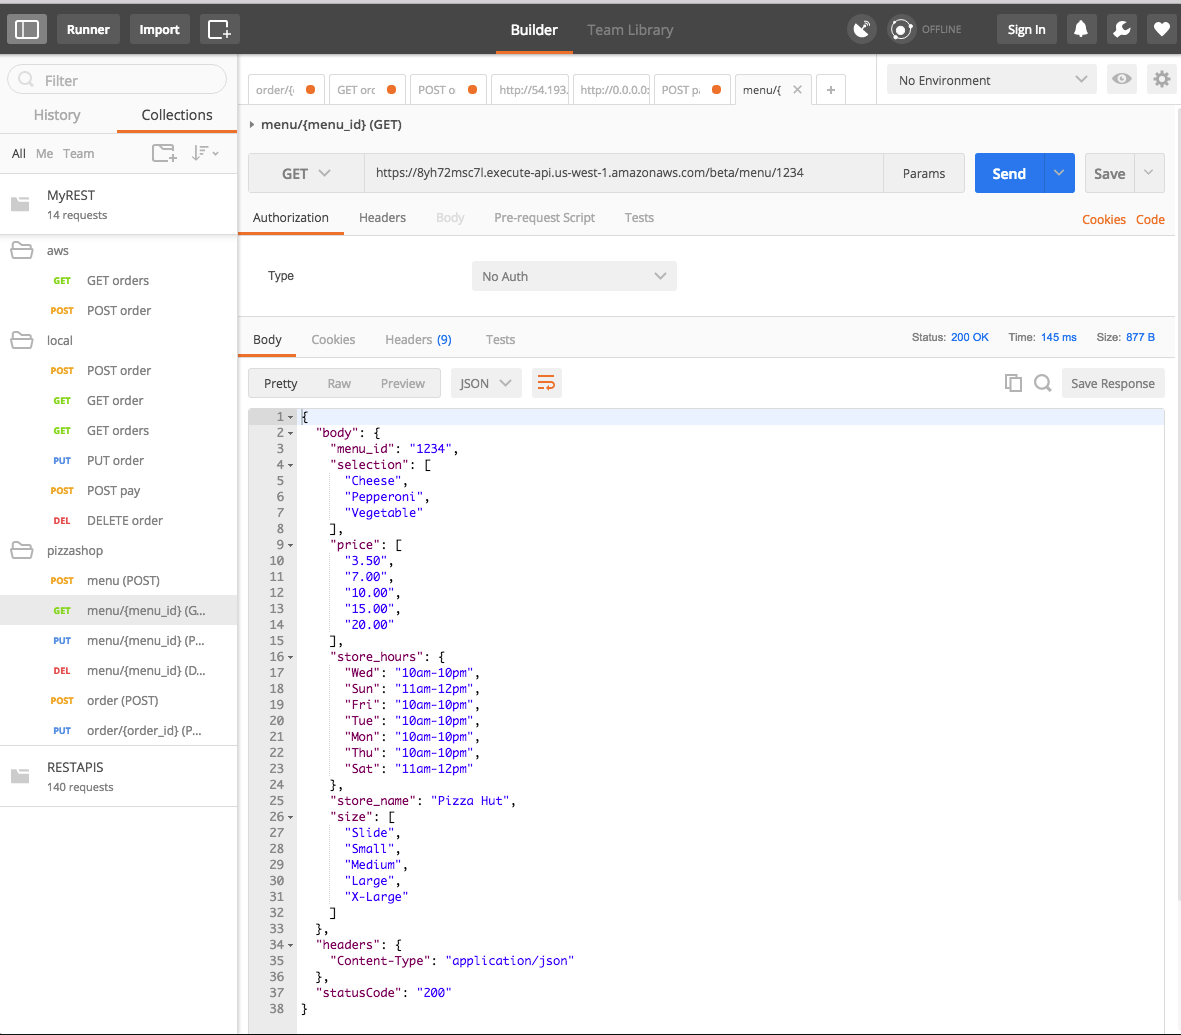
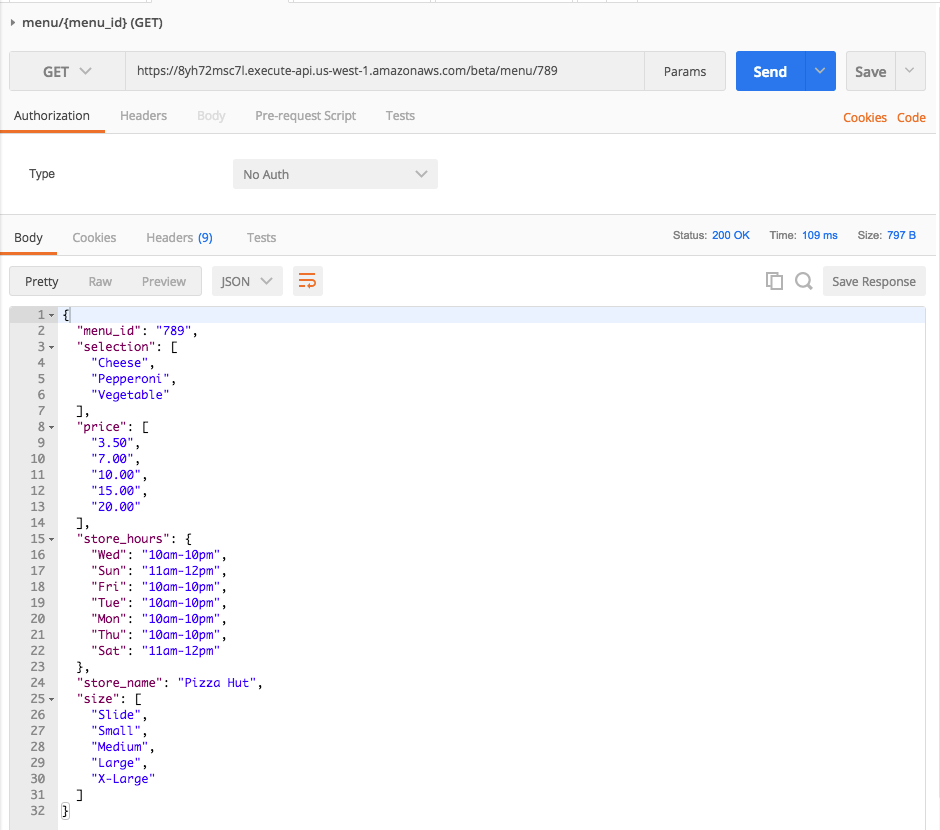
add submission png

diff --git a/assignment2/mypizzashop-order/service.py b/assignment2/mypizzashop-order/service.py
@@ -12,7 +12,7 @@ def selectState(order_tb, menu_tb, body):
 def respond(err, res=None):
     return {
         'statusCode': '400' if err else '200',
-        'body': err.message if err else res,
+        'body': err.message if err else json.dumps(res),
         'headers': {
             'Content-Type': 'application/json',
         },
@@ -21,10 +21,10 @@ def respond(err, res=None):
 def order_handler(event, context):
     # print("Received event: " + json.dumps(event, indent=2))
     try:
-        # order_tb = boto3.resource('dynamodb', region_name='us-west-1').Table('order')
-        # menu_tb = boto3.resource('dynamodb', region_name='us-west-1').Table('menu')
-        order_tb = boto3.resource('dynamodb', region_name='us-west-1', endpoint_url = 'http://127.0.0.1:8000').Table('order')
-        menu_tb = boto3.resource('dynamodb', region_name='us-west-1', endpoint_url = 'http://127.0.0.1:8000').Table('menu')
+        order_tb = boto3.resource('dynamodb', region_name='us-west-1').Table('order')
+        menu_tb = boto3.resource('dynamodb', region_name='us-west-1').Table('menu')
+        # order_tb = boto3.resource('dynamodb', region_name='us-west-1', endpoint_url = 'http://127.0.0.1:8000').Table('order')
+        # menu_tb = boto3.resource('dynamodb', region_name='us-west-1', endpoint_url = 'http://127.0.0.1:8000').Table('menu')
     except Exception as not_found:
         print("Table doesn't exist.")
 
@@ -78,7 +78,7 @@ def order_handler(event, context):
                     ':val2': order,
                 })
             msg = {
-                'message': '"Your order costs ' + price.get(input-1) + '. We will email you when the order is ready. Thank you!'
+                'message': 'Your order costs ' + price.get(input-1) + '. We will email you when the order is ready. Thank you!'
             }
         else:
         	msg = {'message': 'Your order is in process. Please wait patiently'}
@@ -87,18 +87,3 @@ def order_handler(event, context):
         return respond(None, res=order_tb.get_item(Key=event['param']).get('Item'))
     else:
         return respond(ValueError('Unsupported method "{}"'.format(operation)))
-
-
-
-'''
-{
-    "menu_id": "XXXX"
-    "order_id": "XXXX",
-    "customer_name": "John Smith",
-    "customer_email": "foobar@gmail.com"
-    "selection": "Cheese",
-    "size": "X-Large",
-    "price": "15.00"
-}
-
-'''

diff --git a/assignment2/mypizzashop-menu/service.py b/assignment2/mypizzashop-menu/service.py
@@ -6,7 +6,7 @@ import json
 def respond(err, res=None):
     return {
         'statusCode': '400' if err else '200',
-        'body': err.message if err else res,
+        'body': err.message if err else json.dumps(res),
         'headers': {
             'Content-Type': 'application/json',
         },
@@ -15,8 +15,8 @@ def respond(err, res=None):
 def menu_handler(event, context):
     # print("Received event: " + json.dumps(event, indent=2))
     try:
-        table = boto3.resource('dynamodb', region_name='us-west-1', endpoint_url = 'http://127.0.0.1:8000').Table('menu')
-    	# table = boto3.resource('dynamodb', region_name='us-west-1').Table('menu')
+        # table = boto3.resource('dynamodb', region_name='us-west-1', endpoint_url = 'http://127.0.0.1:8000').Table('menu')
+    	table = boto3.resource('dynamodb', region_name='us-west-1').Table('menu')
     except Exception as not_found:
         print("Table doesn't exist.")
 

diff --git a/assignment2/assignment_submission/README.md b/assignment2/assignment_submission/README.md
@@ -1,5 +1,7 @@
 ### Assignment Submission
 
+[api_gateway setup](https://github.com/kanghuawu/cmpe273-spring17/tree/master/assignment2/api_gateway)
+
 [mypizzashop-menu](https://github.com/kanghuawu/cmpe273-spring17/tree/master/assignment2/mypizzashop-menu)
 
 [mypizzashop-order](https://github.com/kanghuawu/cmpe273-spring17/tree/master/assignment2/mypizzashop-order)
@@ -19,11 +21,17 @@
 5. DELETE menu
 ![delete_menu](picture/5_DELETE_menu.png "delete menu")
 
+6. DELETE menu
+![get_menu](picture/6_GET_menu.png "get menu")
+
 7. POST order
-![post_order](picture/6_POST_order.png "post order")
+![post_order](picture/7_POST_order.png "post order")
 
 8. PUT order
-![put_order](picture/7_PUT_order.png "pull order")
+![put_order](picture/8_PUT_order.png "pull order")
 
 9. PUT order
-![put_order](picture/8_PUT_order.png "pull order")
+![put_order](picture/9_PUT_order.png "pull order")
+
+6. GET menu
+![get_menu](picture/10_GET_order.png "get menu")
